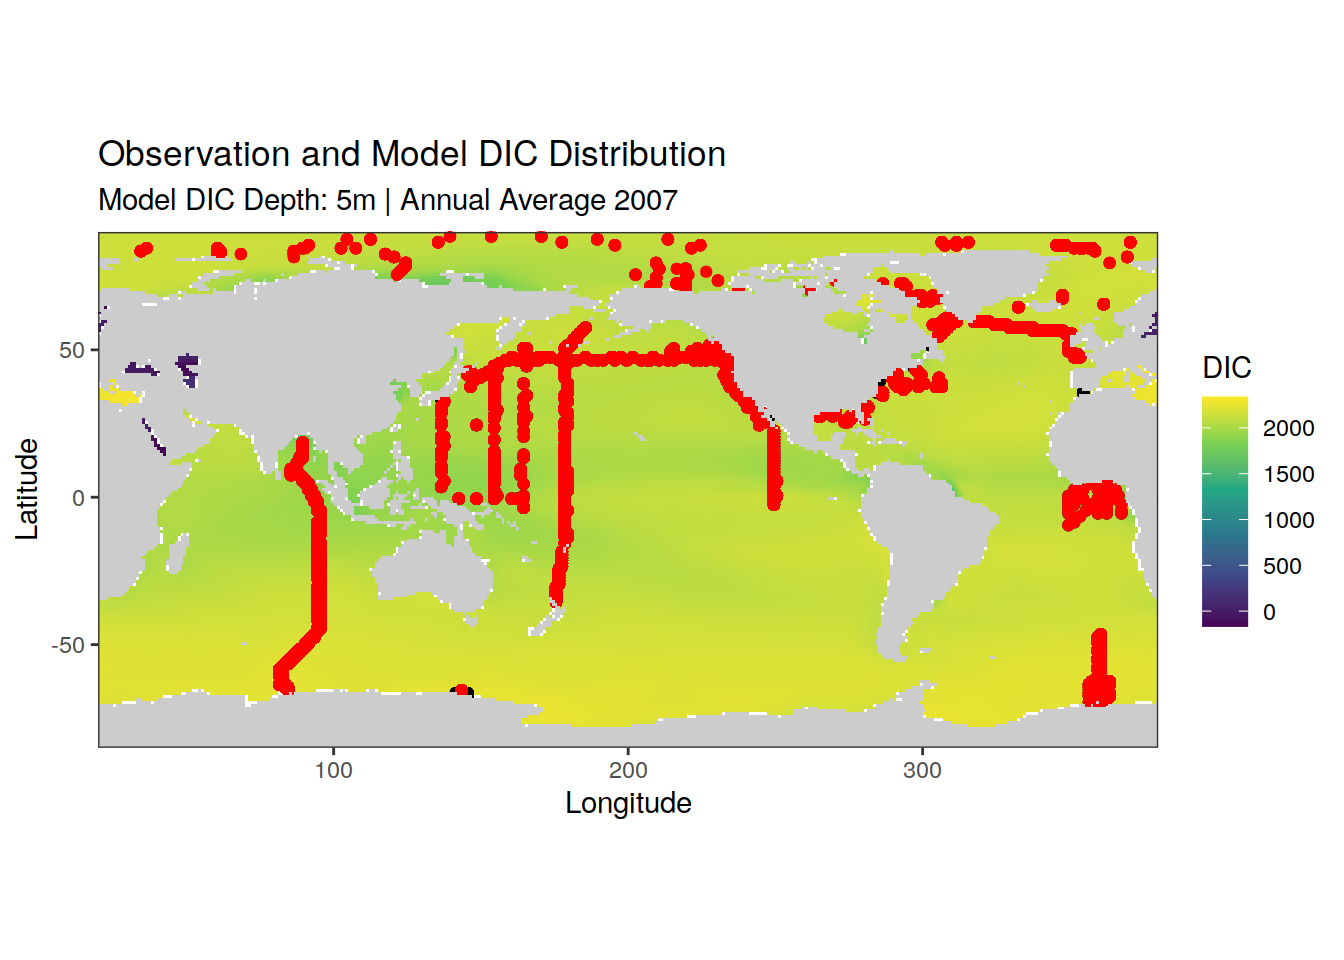
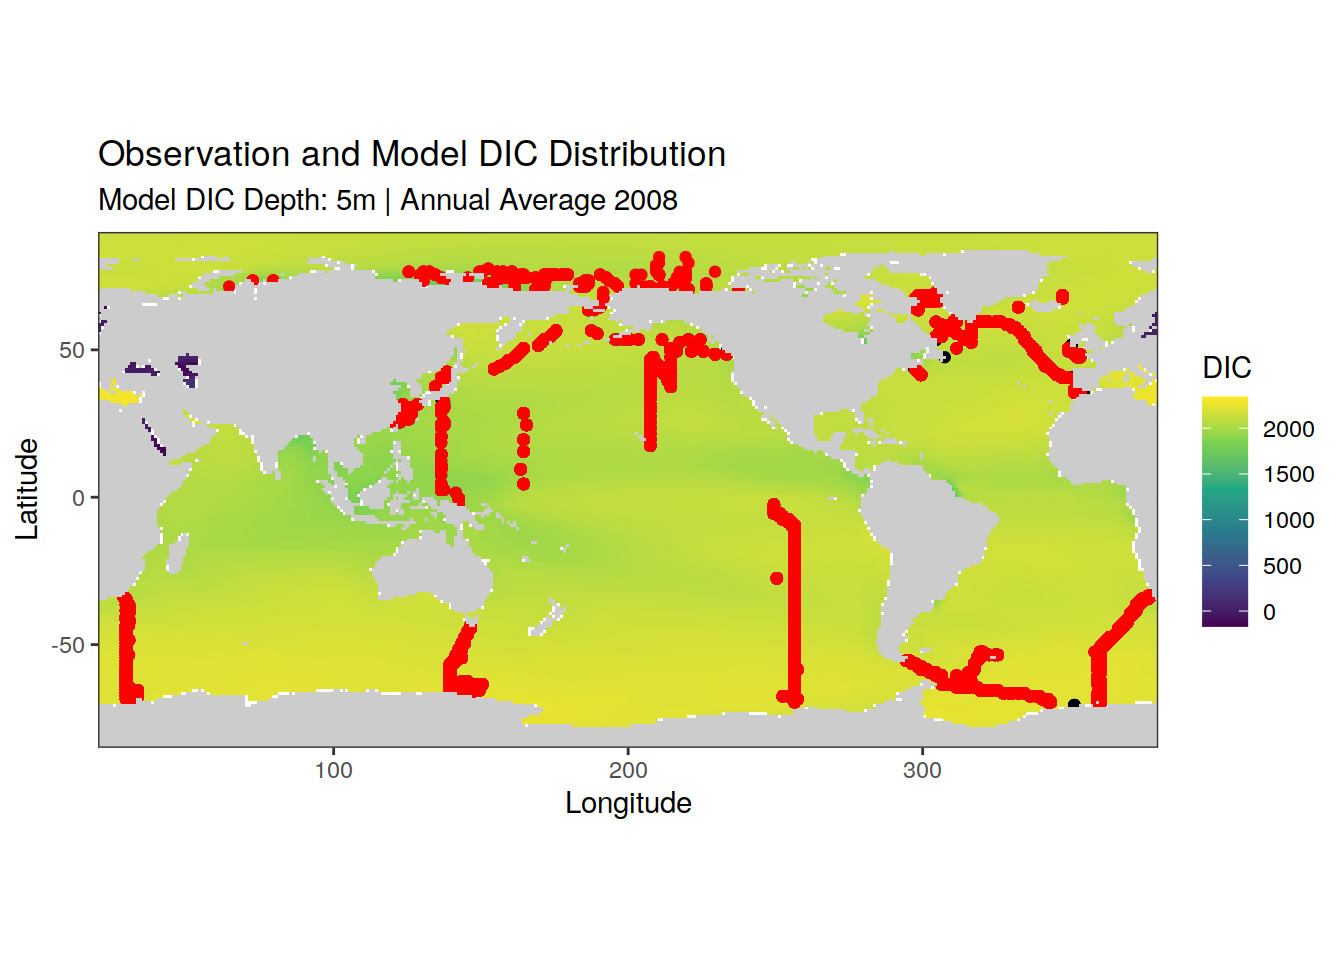
Build site.

diff --git a/docs/eMLR_model_loop.html b/docs/eMLR_model_loop.html
@@ -547,16 +547,16 @@ This reproducible <a href="http://rmarkdown.rstudio.com">R Markdown</a> analysis
 <div class="panel panel-default">
 <div class="panel-heading">
 <p class="panel-title">
-<a data-toggle="collapse" data-parent="#workflowr-checks" href="#strongRepositoryversionstrongahrefhttpsgithubcomDongheZhueMLRmodeltree8146501ec5dc617c2b7bda22eb5aaedf04b3986ctargetblank8146501a"> <span class="glyphicon glyphicon-ok text-success" aria-hidden="true"></span> <strong>Repository version:</strong> <a href="https://github.com/Donghe-Zhu/eMLR_model/tree/8146501ec5dc617c2b7bda22eb5aaedf04b3986c" target="_blank">8146501</a> </a>
+<a data-toggle="collapse" data-parent="#workflowr-checks" href="#strongRepositoryversionstrongahrefhttpsgithubcomDongheZhueMLRmodeltreee297770886ef7130057a7e255c9efbeb48049dcetargetblanke297770a"> <span class="glyphicon glyphicon-ok text-success" aria-hidden="true"></span> <strong>Repository version:</strong> <a href="https://github.com/Donghe-Zhu/eMLR_model/tree/e297770886ef7130057a7e255c9efbeb48049dce" target="_blank">e297770</a> </a>
 </p>
 </div>
[2 lines of base64/hex data omitted]
 <div class="panel-body">
 <p>
 Great! You are using Git for version control. Tracking code development and connecting the code version to the results is critical for reproducibility.
 </p>
 <p>
-The results in this page were generated with repository version <a href="https://github.com/Donghe-Zhu/eMLR_model/tree/8146501ec5dc617c2b7bda22eb5aaedf04b3986c" target="_blank">8146501</a>. See the <em>Past versions</em> tab to see a history of the changes made to the R Markdown and HTML files.
+The results in this page were generated with repository version <a href="https://github.com/Donghe-Zhu/eMLR_model/tree/e297770886ef7130057a7e255c9efbeb48049dce" target="_blank">e297770</a>. See the <em>Past versions</em> tab to see a history of the changes made to the R Markdown and HTML files.
 </p>
 <p>
 Note that you need to be careful to ensure that all relevant files for the analysis have been committed to Git prior to generating the results (you can use <code>wflow_publish</code> or <code>wflow_git_commit</code>). workflowr only checks the R Markdown file, but you know if there are other scripts or data files that it depends on. Below is the status of the Git repository when the results were generated:
@@ -607,6 +607,40 @@ Message
 </tr>
 </thead>
 <tbody>
+<tr>
+<td>
+Rmd
+</td>
+<td>
+<a href="https://github.com/Donghe-Zhu/eMLR_model/blob/e297770886ef7130057a7e255c9efbeb48049dce/analysis/eMLR_model_loop.Rmd" target="_blank">e297770</a>
+</td>
+<td>
+jens-daniel-mueller
+</td>
+<td>
+2020-11-11
+</td>
+<td>
+local rebuild - jens
+</td>
+</tr>
+<tr>
+<td>
+html
+</td>
+<td>
+<a href="https://rawcdn.githack.com/Donghe-Zhu/eMLR_model/aac9a6447b7d8a8acfb4b99f8bdf844ea2fa08a9/docs/eMLR_model_loop.html" target="_blank">aac9a64</a>
+</td>
+<td>
+jens-daniel-mueller
+</td>
+<td>
+2020-11-11
+</td>
+<td>
+Build site.
+</td>
+</tr>
 <tr>
 <td>
 Rmd
@@ -845,7 +879,8 @@ years &lt;- c(&quot;2007&quot;:&quot;2008&quot;)
 
 for (i_year in years) {
   
-  i_year &lt;- years[1]
+  # Uncomment line below for manual testing
+  # i_year &lt;- years[1]
   
   # select GLODAP data for that year
   GLODAP_year &lt;- GLODAP %&gt;%
@@ -857,7 +892,8 @@ for (i_year in years) {
   
   for (i_variable in variables) {
     
-    i_variable &lt;- variables[1]
+    # Uncomment line below for manual testing
+    # i_variable &lt;- variables[1]
 
     # read list of all files
     file &lt;-
@@ -894,17 +930,6 @@ for (i_year in years) {
              month = month(time),
              !!sym(i_variable) := as.numeric(!!sym(i_variable))) %&gt;%
       select(-time)
-    
-    # calculate annual average variable
-    variable_data_tibble_annual_average &lt;-
-      variable_data_tibble %&gt;%
-      group_by(lat, lon, depth) %&gt;%
-      summarise(!!sym(i_variable) := mean(!!sym(i_variable))) %&gt;% 
-      ungroup()
-    
-    # select surface annual average variable
-    variable_data_tibble_annual_average_surface &lt;- variable_data_tibble_annual_average %&gt;%
-      filter(depth == min(depth))
     
     # create month x lat x lon grid of observations
     grid_subset &lt;- GLODAP_year %&gt;%
@@ -949,6 +974,18 @@ for (i_year in years) {
     
     # add model subset to GLODAP
     GLODAP &lt;- left_join(GLODAP, model_obs_interpo)
+    
+    # calculate annual average variable
+    variable_data_tibble_annual_average &lt;-
+      variable_data_tibble %&gt;%
+      group_by(lat, lon, depth) %&gt;%
+      summarise(!!sym(i_variable) := mean(!!sym(i_variable))) %&gt;% 
+      ungroup()
+    
+    # select surface annual average variable
+    variable_data_tibble_annual_average_surface &lt;- variable_data_tibble_annual_average %&gt;%
+      filter(depth == min(depth))
+    
     
     # surface map of variable
     print(
@@ -1025,7 +1062,7 @@ jens-daniel-mueller
 </table>
 </div>
 </div>
-<pre><code>[1] &quot;GIAF_JRA_2020_DIC_2007.nc&quot;</code></pre>
+<pre><code>[1] &quot;GIAF_JRA_2020_ALK_2007.nc&quot;</code></pre>
 <p><img src="figure/eMLR_model_loop.Rmd/subset_regridded_variable_forcing_data-2.png" width="672" style="display: block; margin: auto;" /></p>
 <p>
 <button type="button" class="btn btn-default btn-xs btn-workflowr btn-workflowr-fig" data-toggle="collapse" data-target="#fig-subset_regridded_variable_forcing_data-2">
@@ -1086,7 +1123,7 @@ jens-daniel-mueller
 </table>
 </div>
 </div>
-<pre><code>[1] &quot;GIAF_JRA_2020_DIC_2007.nc&quot;</code></pre>
+<pre><code>[1] &quot;GIAF_JRA_2020_DIC_2008.nc&quot;</code></pre>
 <p><img src="figure/eMLR_model_loop.Rmd/subset_regridded_variable_forcing_data-3.png" width="672" style="display: block; margin: auto;" /></p>
 <p>
 <button type="button" class="btn btn-default btn-xs btn-workflowr btn-workflowr-fig" data-toggle="collapse" data-target="#fig-subset_regridded_variable_forcing_data-3">
@@ -1147,7 +1184,7 @@ jens-daniel-mueller
 </table>
 </div>
 </div>
-<pre><code>[1] &quot;GIAF_JRA_2020_DIC_2007.nc&quot;</code></pre>
+<pre><code>[1] &quot;GIAF_JRA_2020_ALK_2008.nc&quot;</code></pre>
 <p><img src="figure/eMLR_model_loop.Rmd/subset_regridded_variable_forcing_data-4.png" width="672" style="display: block; margin: auto;" /></p>
 <p>
 <button type="button" class="btn btn-default btn-xs btn-workflowr btn-workflowr-fig" data-toggle="collapse" data-target="#fig-subset_regridded_variable_forcing_data-4">

diff --git a/docs/config_parameterization.html b/docs/config_parameterization.html
@@ -547,16 +547,16 @@ This reproducible <a href="http://rmarkdown.rstudio.com">R Markdown</a> analysis
 <div class="panel panel-default">
 <div class="panel-heading">
 <p class="panel-title">
-<a data-toggle="collapse" data-parent="#workflowr-checks" href="#strongRepositoryversionstrongahrefhttpsgithubcomDongheZhueMLRmodeltree8146501ec5dc617c2b7bda22eb5aaedf04b3986ctargetblank8146501a"> <span class="glyphicon glyphicon-ok text-success" aria-hidden="true"></span> <strong>Repository version:</strong> <a href="https://github.com/Donghe-Zhu/eMLR_model/tree/8146501ec5dc617c2b7bda22eb5aaedf04b3986c" target="_blank">8146501</a> </a>
+<a data-toggle="collapse" data-parent="#workflowr-checks" href="#strongRepositoryversionstrongahrefhttpsgithubcomDongheZhueMLRmodeltreee297770886ef7130057a7e255c9efbeb48049dcetargetblanke297770a"> <span class="glyphicon glyphicon-ok text-success" aria-hidden="true"></span> <strong>Repository version:</strong> <a href="https://github.com/Donghe-Zhu/eMLR_model/tree/e297770886ef7130057a7e255c9efbeb48049dce" target="_blank">e297770</a> </a>
 </p>
 </div>
[2 lines of base64/hex data omitted]
 <div class="panel-body">
 <p>
 Great! You are using Git for version control. Tracking code development and connecting the code version to the results is critical for reproducibility.
 </p>
 <p>
-The results in this page were generated with repository version <a href="https://github.com/Donghe-Zhu/eMLR_model/tree/8146501ec5dc617c2b7bda22eb5aaedf04b3986c" target="_blank">8146501</a>. See the <em>Past versions</em> tab to see a history of the changes made to the R Markdown and HTML files.
+The results in this page were generated with repository version <a href="https://github.com/Donghe-Zhu/eMLR_model/tree/e297770886ef7130057a7e255c9efbeb48049dce" target="_blank">e297770</a>. See the <em>Past versions</em> tab to see a history of the changes made to the R Markdown and HTML files.
 </p>
 <p>
 Note that you need to be careful to ensure that all relevant files for the analysis have been committed to Git prior to generating the results (you can use <code>wflow_publish</code> or <code>wflow_git_commit</code>). workflowr only checks the R Markdown file, but you know if there are other scripts or data files that it depends on. Below is the status of the Git repository when the results were generated:
@@ -607,6 +607,23 @@ Message
 </tr>
 </thead>
 <tbody>
+<tr>
+<td>
+html
+</td>
+<td>
+<a href="https://rawcdn.githack.com/Donghe-Zhu/eMLR_model/aac9a6447b7d8a8acfb4b99f8bdf844ea2fa08a9/docs/config_parameterization.html" target="_blank">aac9a64</a>
+</td>
+<td>
+jens-daniel-mueller
+</td>
+<td>
+2020-11-11
+</td>
+<td>
+Build site.
+</td>
+</tr>
 <tr>
 <td>
 html

diff --git a/docs/read_GLODAP_data.html b/docs/read_GLODAP_data.html
@@ -547,16 +547,16 @@ This reproducible <a href="http://rmarkdown.rstudio.com">R Markdown</a> analysis
 <div class="panel panel-default">
 <div class="panel-heading">
 <p class="panel-title">
-<a data-toggle="collapse" data-parent="#workflowr-checks" href="#strongRepositoryversionstrongahrefhttpsgithubcomDongheZhueMLRmodeltree8146501ec5dc617c2b7bda22eb5aaedf04b3986ctargetblank8146501a"> <span class="glyphicon glyphicon-ok text-success" aria-hidden="true"></span> <strong>Repository version:</strong> <a href="https://github.com/Donghe-Zhu/eMLR_model/tree/8146501ec5dc617c2b7bda22eb5aaedf04b3986c" target="_blank">8146501</a> </a>
+<a data-toggle="collapse" data-parent="#workflowr-checks" href="#strongRepositoryversionstrongahrefhttpsgithubcomDongheZhueMLRmodeltreee297770886ef7130057a7e255c9efbeb48049dcetargetblanke297770a"> <span class="glyphicon glyphicon-ok text-success" aria-hidden="true"></span> <strong>Repository version:</strong> <a href="https://github.com/Donghe-Zhu/eMLR_model/tree/e297770886ef7130057a7e255c9efbeb48049dce" target="_blank">e297770</a> </a>
 </p>
 </div>
[2 lines of base64/hex data omitted]
 <div class="panel-body">
 <p>
 Great! You are using Git for version control. Tracking code development and connecting the code version to the results is critical for reproducibility.
 </p>
 <p>
-The results in this page were generated with repository version <a href="https://github.com/Donghe-Zhu/eMLR_model/tree/8146501ec5dc617c2b7bda22eb5aaedf04b3986c" target="_blank">8146501</a>. See the <em>Past versions</em> tab to see a history of the changes made to the R Markdown and HTML files.
+The results in this page were generated with repository version <a href="https://github.com/Donghe-Zhu/eMLR_model/tree/e297770886ef7130057a7e255c9efbeb48049dce" target="_blank">e297770</a>. See the <em>Past versions</em> tab to see a history of the changes made to the R Markdown and HTML files.
 </p>
 <p>
 Note that you need to be careful to ensure that all relevant files for the analysis have been committed to Git prior to generating the results (you can use <code>wflow_publish</code> or <code>wflow_git_commit</code>). workflowr only checks the R Markdown file, but you know if there are other scripts or data files that it depends on. Below is the status of the Git repository when the results were generated:
@@ -607,6 +607,23 @@ Message
 </tr>
 </thead>
 <tbody>
+<tr>
+<td>
+html
+</td>
+<td>
+<a href="https://rawcdn.githack.com/Donghe-Zhu/eMLR_model/aac9a6447b7d8a8acfb4b99f8bdf844ea2fa08a9/docs/read_GLODAP_data.html" target="_blank">aac9a64</a>
+</td>
+<td>
+jens-daniel-mueller
+</td>
+<td>
+2020-11-11
+</td>
+<td>
+Build site.
+</td>
+</tr>
 <tr>
 <td>
 html

diff --git a/docs/config_masks.html b/docs/config_masks.html
@@ -547,16 +547,16 @@ This reproducible <a href="http://rmarkdown.rstudio.com">R Markdown</a> analysis
 <div class="panel panel-default">
 <div class="panel-heading">
 <p class="panel-title">
-<a data-toggle="collapse" data-parent="#workflowr-checks" href="#strongRepositoryversionstrongahrefhttpsgithubcomDongheZhueMLRmodeltree8146501ec5dc617c2b7bda22eb5aaedf04b3986ctargetblank8146501a"> <span class="glyphicon glyphicon-ok text-success" aria-hidden="true"></span> <strong>Repository version:</strong> <a href="https://github.com/Donghe-Zhu/eMLR_model/tree/8146501ec5dc617c2b7bda22eb5aaedf04b3986c" target="_blank">8146501</a> </a>
+<a data-toggle="collapse" data-parent="#workflowr-checks" href="#strongRepositoryversionstrongahrefhttpsgithubcomDongheZhueMLRmodeltreee297770886ef7130057a7e255c9efbeb48049dcetargetblanke297770a"> <span class="glyphicon glyphicon-ok text-success" aria-hidden="true"></span> <strong>Repository version:</strong> <a href="https://github.com/Donghe-Zhu/eMLR_model/tree/e297770886ef7130057a7e255c9efbeb48049dce" target="_blank">e297770</a> </a>
 </p>
 </div>
[2 lines of base64/hex data omitted]
 <div class="panel-body">
 <p>
 Great! You are using Git for version control. Tracking code development and connecting the code version to the results is critical for reproducibility.
 </p>
 <p>
-The results in this page were generated with repository version <a href="https://github.com/Donghe-Zhu/eMLR_model/tree/8146501ec5dc617c2b7bda22eb5aaedf04b3986c" target="_blank">8146501</a>. See the <em>Past versions</em> tab to see a history of the changes made to the R Markdown and HTML files.
+The results in this page were generated with repository version <a href="https://github.com/Donghe-Zhu/eMLR_model/tree/e297770886ef7130057a7e255c9efbeb48049dce" target="_blank">e297770</a>. See the <em>Past versions</em> tab to see a history of the changes made to the R Markdown and HTML files.
 </p>
 <p>
 Note that you need to be careful to ensure that all relevant files for the analysis have been committed to Git prior to generating the results (you can use <code>wflow_publish</code> or <code>wflow_git_commit</code>). workflowr only checks the R Markdown file, but you know if there are other scripts or data files that it depends on. Below is the status of the Git repository when the results were generated:
@@ -607,6 +607,23 @@ Message
 </tr>
 </thead>
 <tbody>
+<tr>
+<td>
+html
+</td>
+<td>
+<a href="https://rawcdn.githack.com/Donghe-Zhu/eMLR_model/aac9a6447b7d8a8acfb4b99f8bdf844ea2fa08a9/docs/config_masks.html" target="_blank">aac9a64</a>
+</td>
+<td>
+jens-daniel-mueller
+</td>
+<td>
+2020-11-11
+</td>
+<td>
+Build site.
+</td>
+</tr>
 <tr>
 <td>
 html

diff --git a/docs/index.html b/docs/index.html
@@ -402,16 +402,16 @@ This reproducible <a href="http://rmarkdown.rstudio.com">R Markdown</a> analysis
 <div class="panel panel-default">
 <div class="panel-heading">
 <p class="panel-title">
-<a data-toggle="collapse" data-parent="#workflowr-checks" href="#strongRepositoryversionstrongahrefhttpsgithubcomDongheZhueMLRmodeltree8146501ec5dc617c2b7bda22eb5aaedf04b3986ctargetblank8146501a"> <span class="glyphicon glyphicon-ok text-success" aria-hidden="true"></span> <strong>Repository version:</strong> <a href="https://github.com/Donghe-Zhu/eMLR_model/tree/8146501ec5dc617c2b7bda22eb5aaedf04b3986c" target="_blank">8146501</a> </a>
+<a data-toggle="collapse" data-parent="#workflowr-checks" href="#strongRepositoryversionstrongahrefhttpsgithubcomDongheZhueMLRmodeltreee297770886ef7130057a7e255c9efbeb48049dcetargetblanke297770a"> <span class="glyphicon glyphicon-ok text-success" aria-hidden="true"></span> <strong>Repository version:</strong> <a href="https://github.com/Donghe-Zhu/eMLR_model/tree/e297770886ef7130057a7e255c9efbeb48049dce" target="_blank">e297770</a> </a>
 </p>
 </div>
[2 lines of base64/hex data omitted]
 <div class="panel-body">
 <p>
 Great! You are using Git for version control. Tracking code development and connecting the code version to the results is critical for reproducibility.
 </p>
 <p>
-The results in this page were generated with repository version <a href="https://github.com/Donghe-Zhu/eMLR_model/tree/8146501ec5dc617c2b7bda22eb5aaedf04b3986c" target="_blank">8146501</a>. See the <em>Past versions</em> tab to see a history of the changes made to the R Markdown and HTML files.
+The results in this page were generated with repository version <a href="https://github.com/Donghe-Zhu/eMLR_model/tree/e297770886ef7130057a7e255c9efbeb48049dce" target="_blank">e297770</a>. See the <em>Past versions</em> tab to see a history of the changes made to the R Markdown and HTML files.
 </p>
 <p>
 Note that you need to be careful to ensure that all relevant files for the analysis have been committed to Git prior to generating the results (you can use <code>wflow_publish</code> or <code>wflow_git_commit</code>). workflowr only checks the R Markdown file, but you know if there are other scripts or data files that it depends on. Below is the status of the Git repository when the results were generated:
@@ -462,6 +462,23 @@ Message
 </tr>
 </thead>
 <tbody>
+<tr>
+<td>
+html
+</td>
+<td>
+<a href="https://rawcdn.githack.com/Donghe-Zhu/eMLR_model/aac9a6447b7d8a8acfb4b99f8bdf844ea2fa08a9/docs/index.html" target="_blank">aac9a64</a>
+</td>
+<td>
+jens-daniel-mueller
+</td>
+<td>
+2020-11-11
+</td>
+<td>
+Build site.
+</td>
+</tr>
 <tr>
 <td>
 html
